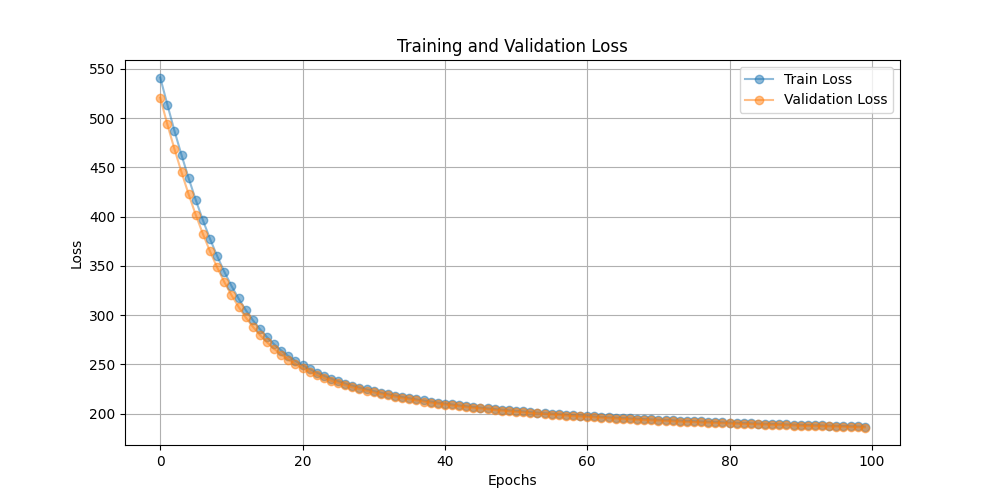
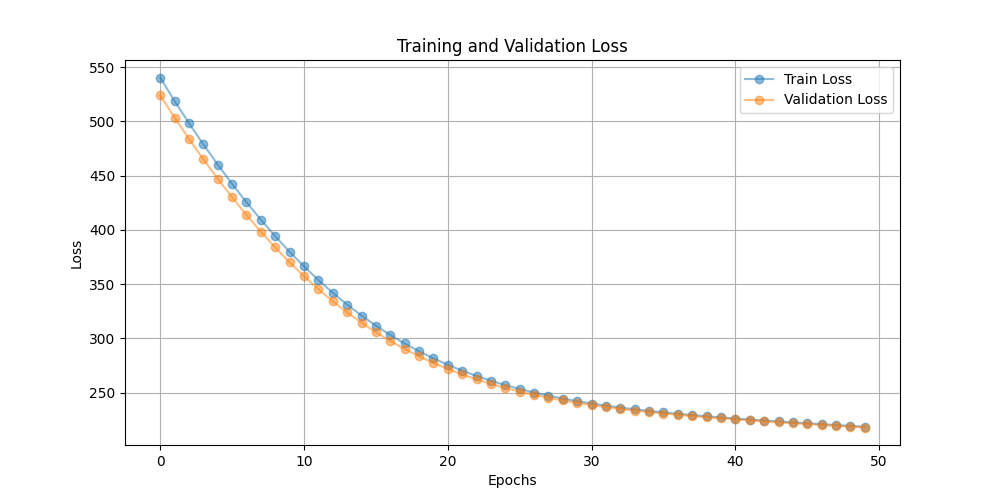
vq_svae

diff --git a/source/ch3-vae/svae/train_vq_svae.py b/source/ch3-vae/svae/train_vq_svae.py
@@ -1,0 +1,226 @@
+from train_svae_mnist import *
+
+
+class VectorQuantizer(nn.Module):
+    def __init__(self, num_embeddings, embedding_dim, commitment_cost, use_cosine_distance=False):
+        super(VectorQuantizer, self).__init__()
+        self.embedding_dim = embedding_dim
+        self.num_embeddings = num_embeddings
+        self.commitment_cost = commitment_cost
+        self.use_cosine_distance = use_cosine_distance
+
+        self.embeddings = nn.Embedding(self.num_embeddings, self.embedding_dim)
+        self.embeddings.weight.data.uniform_(-1 / self.num_embeddings, 1 / self.num_embeddings)
+        self.embeddings.weight.data = F.normalize(self.embeddings.weight.data, p=2, dim=1)  # Normalize on initialization
+
+    def forward(self, inputs):
+        # Normalize embeddings to lie on unit sphere (ensure they remain normalized)
+        with torch.no_grad():
+            self.embeddings.weight.data = F.normalize(self.embeddings.weight.data, p=2, dim=1)
+
+        # Convert inputs from BCHW -> BHWC
+        inputs = inputs.permute(0, 2, 3, 1).contiguous()
+        input_shape = inputs.shape
+
+        # Flatten input
+        flat_input = inputs.view(-1, self.embedding_dim)
+
+        if self.use_cosine_distance:
+            # Normalize input for cosine distance
+            flat_input = F.normalize(flat_input, p=2, dim=1)
+            # Compute cosine distance (1 - cosine similarity)
+            distances = 1 - torch.matmul(flat_input, self.embeddings.weight.t())
+        else:
+            # Compute Euclidean distance
+            distances = (torch.sum(flat_input**2, dim=1, keepdim=True)
+                         + torch.sum(self.embeddings.weight**2, dim=1)
+                         - 2 * torch.matmul(flat_input, self.embeddings.weight.t()))
+
+        # Get encoding indices
+        encoding_indices = torch.argmin(distances, dim=1).unsqueeze(1)
+        encodings = torch.zeros(encoding_indices.shape[0], self.num_embeddings, device=inputs.device)
+        encodings.scatter_(1, encoding_indices, 1)
+
+        # Quantize and unflatten
+        quantized = torch.matmul(encodings, self.embeddings.weight).view(input_shape)
+
+        # Loss
+        e_latent_loss = F.mse_loss(quantized.detach(), inputs)
+        q_latent_loss = F.mse_loss(quantized, inputs.detach())
+        loss = q_latent_loss + self.commitment_cost * e_latent_loss
+
+        # Straight Through Estimator
+        quantized = inputs + (quantized - inputs).detach()
+
+        # Convert quantized from BHWC -> BCHW
+        return loss, quantized.permute(0, 3, 1, 2).contiguous(), encoding_indices
+
+class SoftVectorQuantizer(nn.Module):
+    def __init__(self, num_embeddings, embedding_dim, commitment_cost, use_cosine_distance=False, beta=1.0):
+        super(SoftVectorQuantizer, self).__init__()
+        self.embedding_dim = embedding_dim
+        self.num_embeddings = num_embeddings
+        self.commitment_cost = commitment_cost
+        self.use_cosine_distance = use_cosine_distance
+        self.beta = beta
+
+        self.embeddings = nn.Embedding(self.num_embeddings, self.embedding_dim)
+        self.embeddings.weight.data.uniform_(-1 / self.num_embeddings, 1 / self.num_embeddings)
+        self.embeddings.weight.data = F.normalize(self.embeddings.weight.data, p=2, dim=1)  # Normalize on initialization
+
+    def forward(self, inputs):
+        # Normalize embeddings to lie on unit sphere (ensure they remain normalized)
+        with torch.no_grad():
+            self.embeddings.weight.data = F.normalize(self.embeddings.weight.data, p=2, dim=1)
+
+        # Convert inputs from BCHW -> BHWC
+        inputs = inputs.permute(0, 2, 3, 1).contiguous()
+        input_shape = inputs.shape
+
+        # Flatten input
+        flat_input = inputs.view(-1, self.embedding_dim)
+
+        if self.use_cosine_distance:
+            # Normalize input for cosine distance
+            flat_input = F.normalize(flat_input, p=2, dim=1)
+            # Compute cosine distance (1 - cosine similarity)
+            distances = 1 - torch.matmul(flat_input, self.embeddings.weight.t())
+        else:
+            # Compute Euclidean distance
+            distances = (torch.sum(flat_input**2, dim=1, keepdim=True)
+                         + torch.sum(self.embeddings.weight**2, dim=1)
+                         - 2 * torch.matmul(flat_input, self.embeddings.weight.t()))
+
+        # Apply softmax to distances to get soft assignments
+        soft_assignments = F.softmax(-self.beta * distances, dim=1)
+
+        # Quantize and unflatten
+        quantized = torch.matmul(soft_assignments, self.embeddings.weight).view(input_shape)
+
+        # Loss
+        e_latent_loss = F.mse_loss(quantized.detach(), inputs)
+        q_latent_loss = F.mse_loss(quantized, inputs.detach())
+        loss = q_latent_loss + self.commitment_cost * e_latent_loss
+
+        # Convert quantized from BHWC -> BCHW
+        return loss, quantized.permute(0, 3, 1, 2).contiguous(), soft_assignments
+
+
+
+class VQ_SVAE(nn.Module):
+    def __init__(self, num_embeddings, embedding_dim, commitment_cost, use_cosine_distance=False, beta=1.0):
+        super().__init__()
+        self.encoder = nn.Sequential(
+            nn.Linear(original_dim, intermediate_dim),
+            nn.ReLU(),
+            nn.Linear(intermediate_dim, latent_dim)
+        )
+        self.vq_layer = SoftVectorQuantizer(num_embeddings, latent_dim, commitment_cost, use_cosine_distance, beta)
+        self.decoder = nn.Sequential(
+            nn.Linear(latent_dim, intermediate_dim),
+            nn.ReLU(),
+            nn.Linear(intermediate_dim, original_dim),
+            nn.Sigmoid()
+        )
+
+    def encode(self, x):
+        h = self.encoder(x)
+        return h
+
+    def decode(self, z):
+        z = z.view(-1, latent_dim)  # Flatten for decoder
+        return self.decoder(z)
+
+    def quant(self, h):
+        h = h.view(-1, 1, 1, latent_dim)  # Reshape for VQ layer
+        vq_loss, quantized, _ = self.vq_layer(h)
+        return vq_loss, quantized
+
+    def forward(self, x):
+        h = self.encode(x.view(-1, original_dim))
+        vq_loss, quantized = self.quant(h)
+        recon_x = self.decode(quantized)
+        return recon_x, vq_loss
+
+
+def loss_function(recon_x, x, vq_loss):
+    BCE = F.binary_cross_entropy(recon_x, x.view(-1, original_dim), reduction='sum')
+    return BCE + vq_loss
+
+def train(model, epoch, train_loader, optimizer, device, train_loss_history):
+    model.train()
+    train_loss = 0
+    for batch_idx, (data, _) in enumerate(tqdm(train_loader, desc=f"Train Epoch {epoch}", leave=False)):
+        data = data.view(-1, original_dim).to(device)
+        optimizer.zero_grad()
+        recon_batch, vq_loss = model(data)
+        loss = loss_function(recon_batch, data, vq_loss)
+        loss.backward()
+        train_loss += loss.item()
+        optimizer.step()
+        if batch_idx % 100 == 0:
+            print(f'Train Epoch: {epoch} [{batch_idx * len(data)}/{len(train_loader.dataset)} ({100. * batch_idx / len(train_loader):.0f}%)]\tLoss: {loss.item() / len(data):.6f}')
+    avg_train_loss = train_loss / len(train_loader.dataset)
+    train_loss_history.append(avg_train_loss)
+    print(f'====> Epoch: {epoch} Average train loss: {avg_train_loss:.4f}')
+
+def validate(model, test_loader, device, val_loss_history):
+    model.eval()
+    test_loss = 0
+    with torch.no_grad():
+        for data, _ in test_loader:
+            data = data.view(-1, original_dim).to(device)
+            recon_batch, vq_loss = model(data)
+            test_loss += loss_function(recon_batch, data, vq_loss).item()
+    avg_val_loss = test_loss / len(test_loader.dataset)
+    val_loss_history.append(avg_val_loss)
+    print(f'====> Test set loss: {avg_val_loss:.4f}')
+
+def main(args):
+    device = torch.device('cuda' if torch.cuda.is_available() else 'cpu')
+    model = VQ_SVAE(num_embeddings=512, embedding_dim=latent_dim, commitment_cost=0.25,
+                   use_cosine_distance=args.use_cosine_distance, beta=args.beta).to(device)
+    optimizer = optim.Adam(model.parameters(), lr=args.lr)
+
+    train_loader, test_loader = load_data(DS_PATH_MNIST, args.batch_size)
+
+    train_loss_history = []
+    val_loss_history = []
+    start_epoch = 1
+
+    checkpoint_path = os.path.join(args.checkpoint_dir, 'vq_svae_checkpoint.pth')
+    if os.path.exists(checkpoint_path):
+        start_epoch, train_loss_history, val_loss_history = load_checkpoint(checkpoint_path, model, optimizer)
+        print(f'Checkpoint loaded, resuming training from epoch {start_epoch}')
+
+    for epoch in tqdm(range(start_epoch, args.epochs + 1), desc="Epochs"):
+        train(model, epoch, train_loader, optimizer, device, train_loss_history)
+        validate(model, test_loader, device, val_loss_history)
+
+        save_checkpoint({
+            'epoch': epoch,
+            'model_state_dict': model.state_dict(),
+            'optimizer_state_dict': optimizer.state_dict(),
+            'train_loss_history': train_loss_history,
+            'val_loss_history': val_loss_history
+        }, checkpoint_path)
+
+    plot_loss(train_loss_history, val_loss_history)
+    visualize_latent_space(model, test_loader, device)
+    visualize_reconstructed_digits(model, device, latent_dim)
+
+if __name__ == "__main__":
+    parser = argparse.ArgumentParser(description="VQ-VAE Training Script")
+    parser.add_argument("--batch_size", type=int, default=30000, help="Batch size for training")
+    parser.add_argument("--epochs", type=int, default=50, help="Number of epochs to train")
+    parser.add_argument("--lr", type=float, default=1e-3, help="Learning rate")
+    parser.add_argument("--checkpoint_dir", type=str, default='mbin', help="Directory to save checkpoints")
+    parser.add_argument("--use_cosine_distance", action="store_true",
+                        help="Use cosine distance for vector quantization")
+    parser.add_argument("--beta", type=float, default=1.0, help="Beta parameter for soft quantization")
+    args = parser.parse_args()
+    main(args)
+
+"""
+python train_vq_svae.py --use_cosine_distance
+"""

diff --git a/source/ch3-vae/svae/train_svae_mnist.py b/source/ch3-vae/svae/train_svae_mnist.py
@@ -132,6 +132,9 @@ def visualize_latent_space(model, test_loader, device):
             data = data.view(-1, original_dim).to(device)
             label = label.to(device)
             z_mean = model.encode(data)
+            if hasattr(model, 'quant'):
+                _, z_mean = model.quant(z_mean)
+                z_mean = z_mean.view(z_mean.shape[0], latent_dim)
             z_means.append(z_mean)
             labels.append(label)
         z_means = torch.cat(z_means).cpu().numpy()
